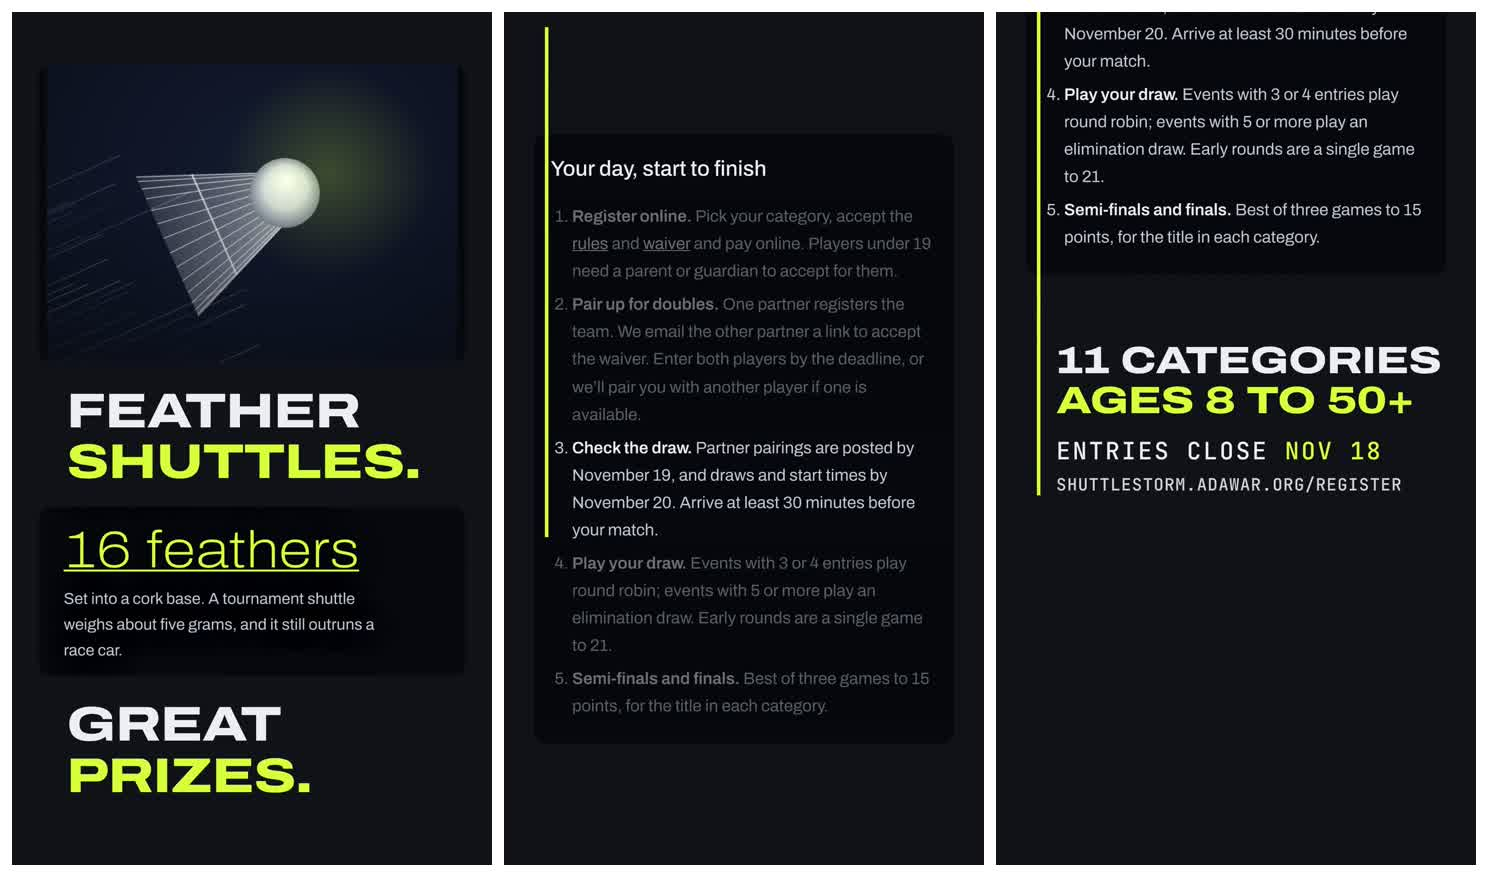
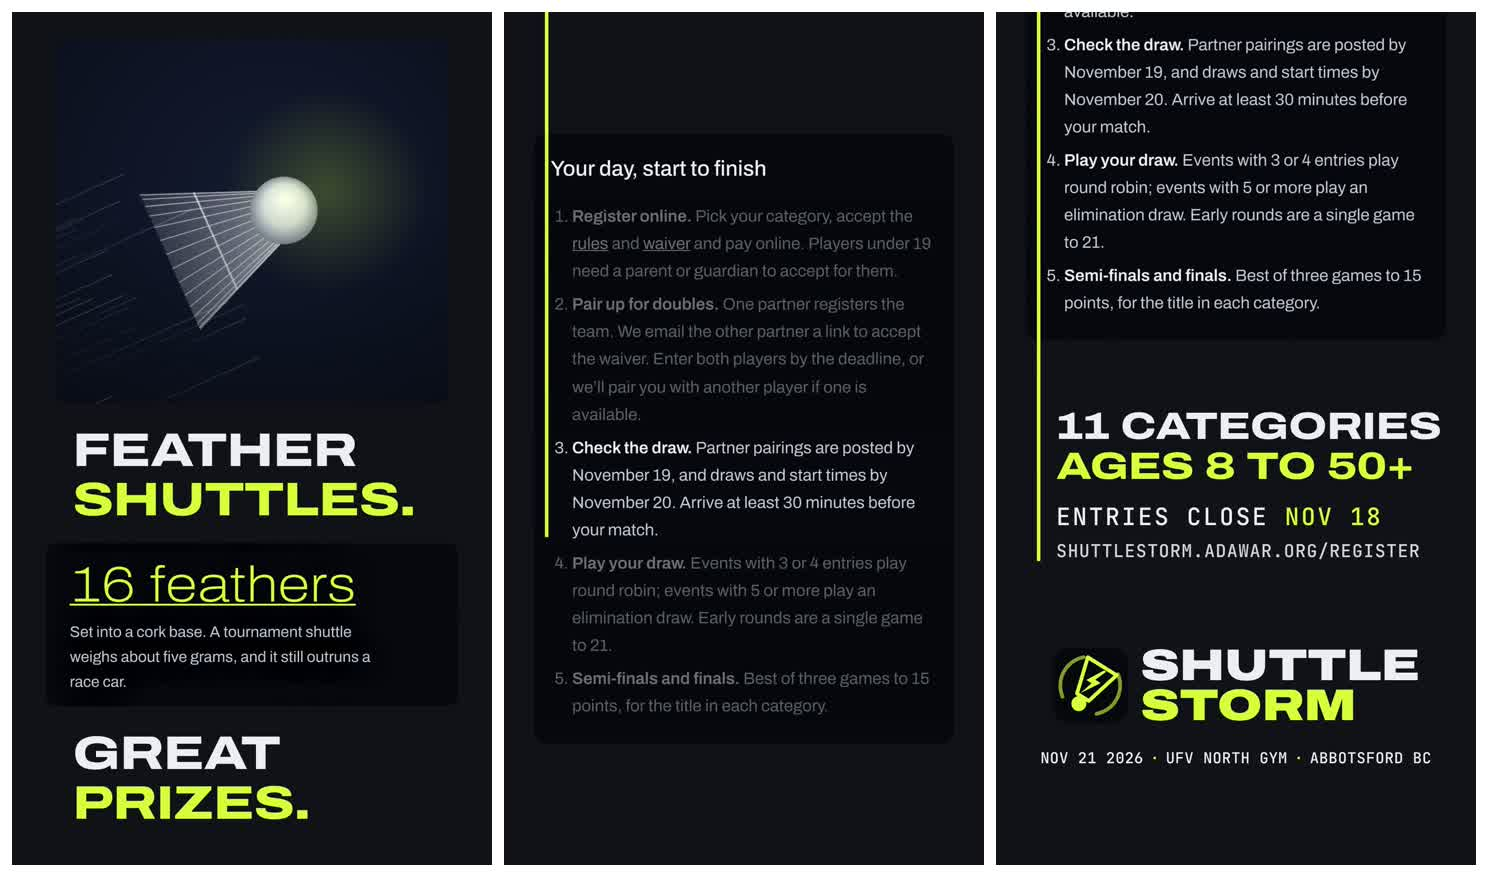
Marketing and players: fix composition notes from the third reviews; website passes review
Marketing: the camera rides down with the rule into an end frame that
holds the whole numbers card, the deadline and the lockup as one stack;
paragraph keeps side margins.
Players: the art fills the opening, the promises clear the frame before
step 1, steps light as the bar reaches them, and the lockup rises with
the end headline into a balanced final frame.
Records the website film's passing review and delivery gate.

Claude-Session: https://claude.ai/code/session_01Q1qV7aXr3g9FSPdkydwqG5

diff --git a/motion-graphics/src/ShuttleStormPlayers.tsx b/motion-graphics/src/ShuttleStormPlayers.tsx
@@ -29,7 +29,8 @@ export const PLAYERS = { width: 1080, height: 1920, duration: 300 };
 
 const S = 2.4;
 const X = (1080 - CSS_W * S) / 2;
-const ART = { top: 300, height: 300 };
+// The shuttle art, cropped inside the page's darker side edges.
+const ART = { top: 250, height: 380, left: 10, width: 410 };
 const FEATHERS = { top: 160, height: 170 };
 
 // The register card sits with ~67 px gutters so its step markers stay in frame.
@@ -45,14 +46,14 @@ const headlineY = artY + ART.height * S + 60;
 const factY = headlineY + 290;
 const prizesY = factY + FEATHERS.height * S + 60;
 const prizesBottom = prizesY + 270;
-const dayY = prizesBottom + 260;
+const dayY = prizesBottom + 400;
 const dayH = m.registerDay.h * SD;
 const dayBottom = dayY + dayH;
 
 const stepTop = (i: number) => dayY + (steps[i].y + 2) * SD;
 const stepBottom = (i: number) => dayY + (steps[i].y + steps[i].h - 6) * SD;
 // The card nearly fills the frame; the camera drifts a little with the active step.
-const stepCam = (i: number) => dayY + dayH / 2 + (i - 2) * 70;
+const stepCam = (i: number) => dayY + dayH / 2 + (i - 2) * 60;
 
 // End card: a left-ruled fact stack continuing the thread, then the lockup.
 const endTop = dayBottom + 150;
@@ -61,7 +62,8 @@ const urlTop = deadlineTop + 86;
 const barEnd = urlTop + 50;
 const lockupTop = barEnd + 190;
 // Framed from the step-5 card's bottom to the lockup's date line.
-const endCenter = (dayBottom - 220 + lockupTop + 270) / 2;
+// Steps 3–5 stay in frame above the end card, which sits low and balanced.
+const endCenter = dayBottom + 220;
 
 // Timeline (frames).
 const T = {
@@ -83,10 +85,10 @@ export const ShuttleStormPlayers: React.FC = () => {
     { t: stepAt(i + 1), x: 540, y: stepCam(i), z: 1 },
   ]);
   const cam = cameraAt(frame, [
-    { t: 0, x: 540, y: artY + (ART.height * S) / 2, z: 1.4 },
-    { t: 4, x: 540, y: artY + (ART.height * S) / 2, z: 1.38 },
-    { t: 30, x: 540, y: hookCenter, z: 0.93 },
-    { t: T.leave, x: 540, y: hookCenter, z: 0.93 },
+    // Open with the art filling the frame, and pull back at once.
+    { t: 0, x: 560, y: artY + (ART.height * S) / 2, z: 1.8 },
+    { t: 30, x: 540, y: hookCenter, z: 0.9 },
+    { t: T.leave, x: 540, y: hookCenter, z: 0.9 },
     ...stepKeys.slice(0, -1),
     { t: END, x: 540, y: stepCam(4), z: 1 },
     { t: END + 22, x: 540, y: endCenter, z: 1 },
@@ -120,18 +122,29 @@ export const ShuttleStormPlayers: React.FC = () => {
     { ...clamp, easing: ease },
   );
   const showBar = frame >= T.thread1[0];
-  const active = Math.max(0, Math.min(4, Math.floor((frame - stepAt(0)) / T.stepEvery)));
+  // A step lights as the bar's head crosses its title.
+  const active = Math.max(0, Math.min(4, Math.floor((frame - stepAt(0) - 3) / T.stepEvery)));
   const inSteps = frame >= stepAt(0) - 4 && frame < END + 4;
 
   const endLines = [0, 1].map((i) => ramp(frame, END + 6 + i * 5, END + 20 + i * 5));
   const deadline = ramp(frame, END + 18, END + 28);
   const url = ramp(frame, END + 22, END + 32);
-  const lockup = ramp(frame, END + 26, END + 40);
+  const lockup = ramp(frame, END + 8, END + 26);
 
   return (
     <AbsoluteFill style={{ backgroundColor: WORLD, overflow: "hidden" }}>
       <World cam={cam} width={PLAYERS.width} height={PLAYERS.height}>
-        <SiteCrop file="site-home-everypoint" imageHeight={932} top={ART.top} height={ART.height} scale={S} x={X} y={artY} />
+        <SiteCrop
+          file="site-home-everypoint"
+          imageHeight={932}
+          top={ART.top}
+          height={ART.height}
+          left={ART.left}
+          width={ART.width}
+          scale={S}
+          x={(1080 - ART.width * S) / 2}
+          y={artY}
+        />
 
         <div style={{ position: "absolute", left: TEXT_X, top: headlineY }}>
           <RevealLines lines={[{ text: "Feather" }, { text: "shuttles.", color: VOLT }]} progress={feather} size={118} />
@@ -187,7 +200,7 @@ export const ShuttleStormPlayers: React.FC = () => {
           </Mono>
         </div>
         <div style={{ position: "absolute", left: TEXT_X + 44, top: urlTop, opacity: url }}>
-          <Mono size={38} color={BONE} tracking="0.04em">
+          <Mono size={40} color={BONE} tracking="0.04em">
             shuttlestorm.adawar.org/register
           </Mono>
         </div>
@@ -200,7 +213,7 @@ export const ShuttleStormPlayers: React.FC = () => {
             width: 1080,
             display: "flex",
             justifyContent: "center",
-            transform: `translateY(${interpolate(lockup, [0, 1], [900, 0], { ...clamp, easing: ease })}px)`,
+            transform: `translateY(${interpolate(lockup, [0, 1], [400, 0], { ...clamp, easing: ease })}px)`,
           }}
         >
           <Lockup size={100} />

diff --git a/motion-graphics/src/ShuttleStormPromo.tsx b/motion-graphics/src/ShuttleStormPromo.tsx
@@ -47,27 +47,30 @@ const heroFocus = { x: 540, y: 1010 };
 // Push in on "Saturday, November 21", then ease back to the full ages sentence.
 const date = m.homeHero.date[0];
 const dateFocus = { x: atX(date.x + date.w / 2), y: at(heroY, HERO.top, date.y + date.h / 2) };
-const paraFocus = { x: atX(199), y: at(heroY, HERO.top, 737) };
+const paraFocus = { x: atX(205), y: at(heroY, HERO.top, 737) };
 
 // The "$30–40" numeral wraps onto two lines; each line gets its own mark at
 // its measured glyph run. The others are single-line.
 const NUM_MARKS = m.homeNumbers.numeralText.map((n, i) =>
   i === 3
     ? [
-        { x: n.x + 2, y: 399.5, w: 135 },
+        { x: n.x + 2, y: 401.5, w: 135 },
         { x: n.x + 2, y: 449, w: 68 },
       ]
     : [{ x: n.x, y: n.y + n.h - 4, w: n.w }],
 );
 
 // End card: the volt rule leaves the numbers card and runs down as the margin
-// rule of the deadline and address, over the site film's lockup.
+// rule of the deadline and address, over the site film's lockup. The final
+// frame holds the whole numbers card above it, so the stack reads as one page.
 const RULE_X = atX(25);
-const endTop = numbersBottom + 150;
-const urlTop = endTop + 236;
+const endTop = numbersBottom + 110;
+const urlTop = endTop + 200;
 const ruleEnd = urlTop + 56;
-const lockupTop = ruleEnd + 150;
-const endCenter = (numbersBottom - 200 + lockupTop + 330) / 2;
+const lockupTop = ruleEnd + 120;
+const endBottom = lockupTop + 275;
+// Nudged down so the statement card above stays just out of frame.
+const endCenter = (numbersY + endBottom) / 2 + 32;
 
 export const ShuttleStormPromo: React.FC = () => {
   const frame = useCurrentFrame();
@@ -77,13 +80,14 @@ export const ShuttleStormPromo: React.FC = () => {
     { t: 8, ...heroFocus, z: OPEN_Z + 0.01 },
     { t: 26, ...dateFocus, z: 1.5 },
     { t: 40, ...dateFocus, z: 1.5 },
-    { t: 52, ...paraFocus, z: 1.15 },
-    { t: 66, ...paraFocus, z: 1.15 },
+    { t: 52, ...paraFocus, z: 1.1 },
+    { t: 66, ...paraFocus, z: 1.1 },
     { t: 86, x: 540, y: statementY + (STATEMENT.height * S) / 2, z: 1 },
     { t: 102, x: 540, y: statementY + (STATEMENT.height * S) / 2, z: 1 },
     { t: 120, x: 540, y: numbersY + (NUMBERS.height * S) / 2, z: 1.08 },
-    { t: 144, x: 540, y: numbersY + (NUMBERS.height * S) / 2, z: 1.08 },
-    { t: 166, x: 540, y: endCenter, z: 1 },
+    { t: 138, x: 540, y: numbersY + (NUMBERS.height * S) / 2, z: 1.08 },
+    // The camera rides down with the rule's head.
+    { t: 164, x: 540, y: endCenter, z: 1 },
     { t: PROMO.duration, x: 540, y: endCenter, z: 1 },
   ]);
 
@@ -94,7 +98,7 @@ export const ShuttleStormPromo: React.FC = () => {
   const rule = ramp(frame, 136, 162);
   const endLines = [0, 1].map((i) => ramp(frame, 146 + i * 6, 162 + i * 6));
   const url = ramp(frame, 166, 176);
-  const lockup = ramp(frame, 170, 186);
+  const lockup = ramp(frame, 164, 182);
 
   return (
     <AbsoluteFill style={{ backgroundColor: WORLD, overflow: "hidden" }}>
@@ -148,7 +152,7 @@ export const ShuttleStormPromo: React.FC = () => {
             width: 1080,
             display: "flex",
             justifyContent: "center",
-            transform: `translateY(${interpolate(lockup, [0, 1], [700, 0], { ...clamp, easing: ease })}px)`,
+            transform: `translateY(${interpolate(lockup, [0, 1], [360, 0], { ...clamp, easing: ease })}px)`,
           }}
         >
           <Lockup size={104} />

diff --git a/motion-graphics/briefs/players/.promptible/research-brief.md b/motion-graphics/briefs/players/.promptible/research-brief.md
@@ -21,7 +21,7 @@ openmontage-claude-pipeline: one connected pipeline; the camera follows causalit
 
 ## Motion plan
 
-Open tight on the site's own shuttle art and pull back at once as 'FEATHER SHUTTLES.' rises; the site's real '16 feathers' fact arrives once the pull-back has it whole in frame and is underlined; then 'GREAT PRIZES.' holds for ~0.5 s. One flat volt bar then draws down from the promises into the register page's real 'Your day, start to finish' (shown with ~67 px side gutters), where it becomes each step's marker: it advances through one step at a time as that step lights and the others dim, each step held ~0.6 s static while the card nearly fills the frame. From step 5 the same bar runs straight on as the margin rule of the end card while the step-5 card bottom is still in frame: '11 CATEGORIES / AGES 8 TO 50+', 'Entries close Nov 18', the register URL, then the site film's lockup with a 34 px date line. No empty travel; ~1.6 s end hold.
+Open with the site's own shuttle art (cropped inside the page's darker edges) filling the frame, and pull back at once as 'FEATHER SHUTTLES.' rises; the site's real '16 feathers' fact arrives once the pull-back has it whole in frame and is underlined; then 'GREAT PRIZES.' holds for ~0.5 s. One flat volt bar then draws down from the promises into the register page's real 'Your day, start to finish' (shown with ~67 px side gutters; the promises have cleared the frame by step 1), where it becomes each step's marker: each step lights as the bar's head crosses its title and the others dim, each held ~0.6 s static while the card nearly fills the frame. From step 5 the same bar runs straight on as the margin rule of the end card, with steps 3–5 still in frame above it: '11 CATEGORIES / AGES 8 TO 50+' with the site film's lockup rising alongside, then 'Entries close Nov 18' and the register URL. No empty travel; ~1.6 s end hold.
 
 ## Avoid
 

diff --git a/motion-graphics/briefs/promo/.promptible/research-brief.md b/motion-graphics/briefs/promo/.promptible/research-brief.md
@@ -21,7 +21,7 @@ kickbacks-same-run-editor: the authentic working surface (the real home page) is
 
 ## Motion plan
 
-Open on the whole real hero at 0.95× so the nav mark and the card's own side padding are visible. Push in hard (1.5×) on 'Saturday, November 21' as its underline draws, then ease back to the full hero paragraph as the ages line is underlined. Travel to the centred statement and underline 'Eleven categories. Juniors to masters.' Travel to the numbers block and underline each numeral at its own glyph width (11, 8, 50+, and both lines of the wrapped '$30– / 40'). The volt mark then leaves the numbers card as one margin rule that runs down into the end card, so the payoff stays attached to the page: 'ENTRIES CLOSE / NOV 18' and the site address beside the rule, then the site film's lockup (~80% of frame width) with a 34 px date line. Settled by about frame 186 for a ~1.8 s hold (8 s total).
+Open on the whole real hero at 0.95× so the nav mark and the card's own side padding are visible. Push in hard (1.5×) on 'Saturday, November 21' as its underline draws, then ease back to the full hero paragraph (with side margins) as the ages line is underlined. Travel to the centred statement and underline 'Eleven categories. Juniors to masters.' Travel to the numbers block and underline each numeral at its own glyph width (11, 8, 50+, and both lines of the wrapped '$30– / 40'). The volt mark then leaves the numbers card as one margin rule and the camera rides down with its head, so the payoff stays attached to the page: the final frame holds the whole numbers card, the rule beside 'ENTRIES CLOSE / NOV 18' and the site address, and the site film's lockup with a 34 px date line, centred as one stack. Settled by about frame 184 for a ~1.8 s hold (8 s total).
 
 ## Avoid
 
